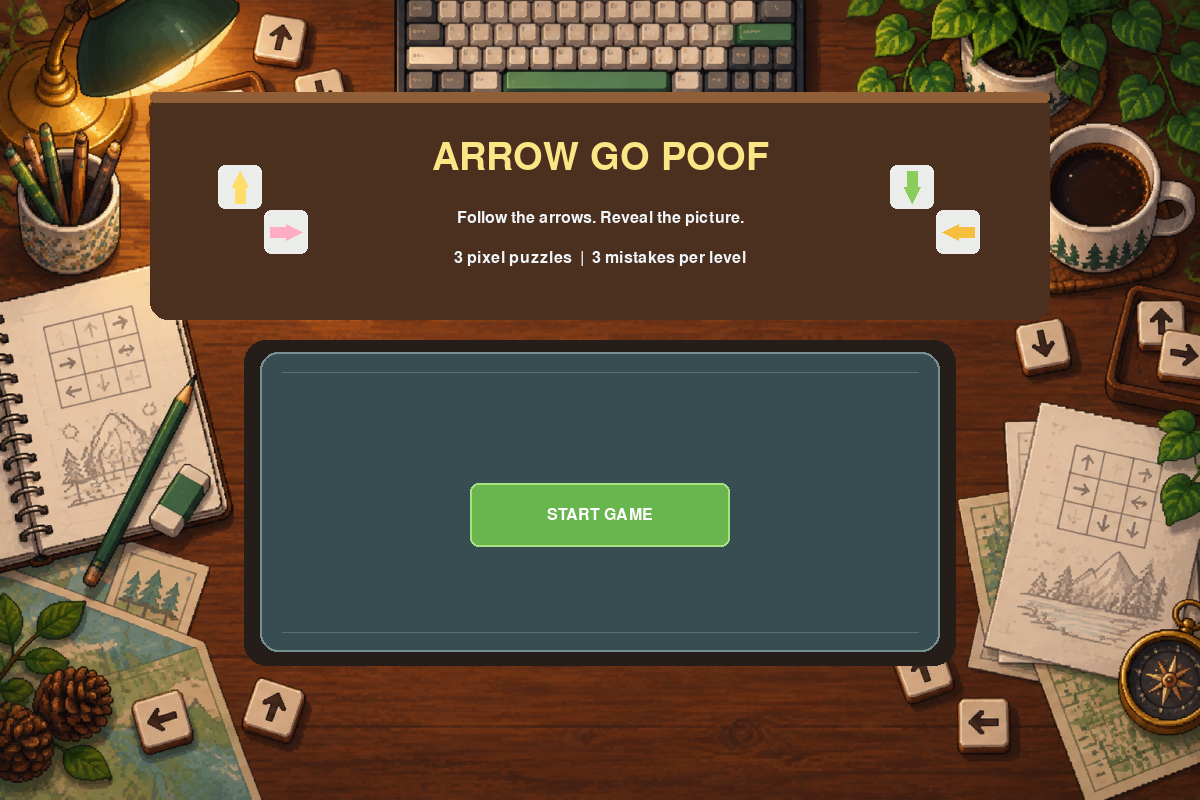
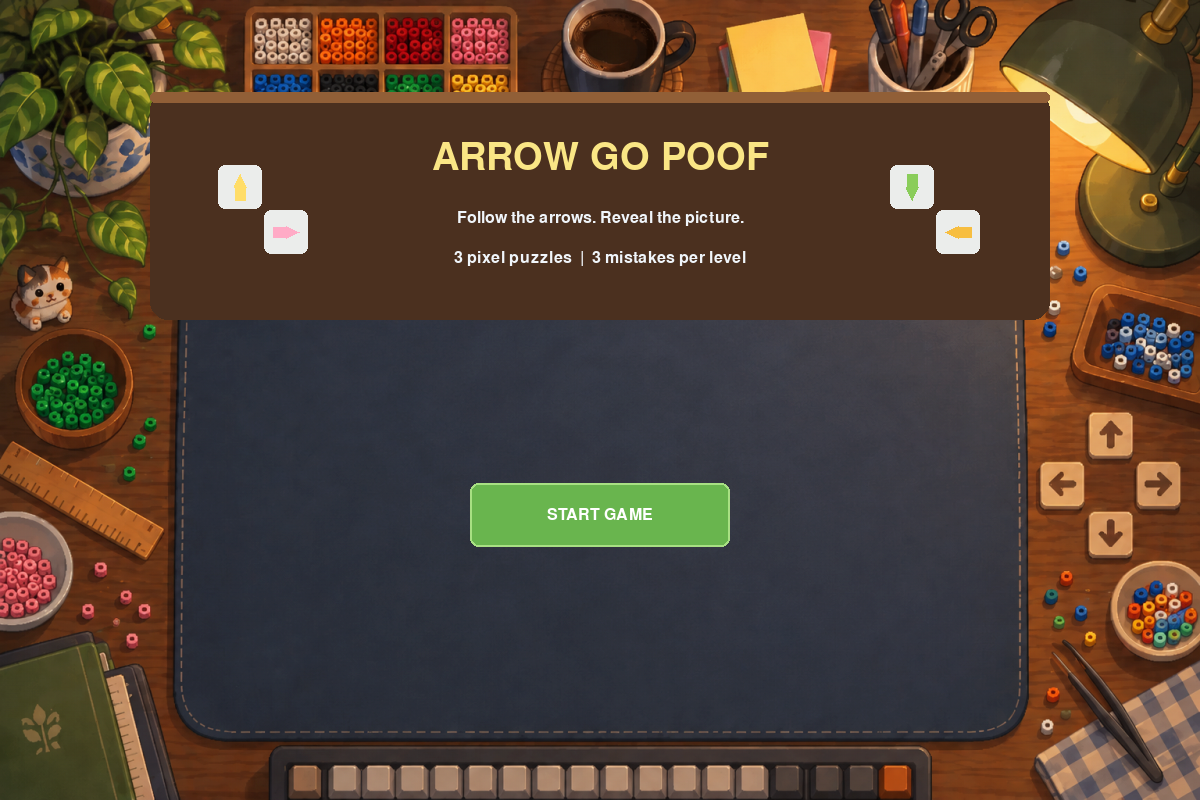
feat: use supplied bead desk and first level pattern

diff --git a/src/levels.py b/src/levels.py
@@ -12,33 +12,70 @@ SAMPLE_COLOR_GRID = (
     ("grass", "trunk", "trunk", "grass", "flower"),
 )
 
-TREE_ARROW_GRID = (
-    (None, None, None, None, None, None, "U", None, None, None, None, None, None),
-    (None, None, None, None, "U", "U", "U", "U", "U", None, None, None, None),
-    (None, None, None, "U", "U", "U", "U", "U", "U", "U", "U", None, None),
-    (None, None, "L", "U", "U", "U", "U", "U", "U", "U", "R", None, None),
-    (None, "L", "U", "U", "U", "U", "U", "U", "U", "U", "U", "R", None),
-    ("L", "U", "U", "U", "U", "U", "U", "U", "U", "U", "U", "U", "R"),
-    (None, "L", "U", "U", "U", "U", "U", "U", "U", "U", "U", "R", None),
-    (None, None, "L", "U", "U", "U", "U", "U", "U", "U", "R", None, None),
-    (None, None, None, None, "D", "D", "D", "D", "D", None, None, None, None),
-    (None, None, None, None, "D", "D", "D", "D", "D", None, None, None, None),
-    (None, None, None, None, "D", "D", "D", "D", "D", None, None, None, None),
-    (None, None, None, "L", "D", "D", "D", "D", "D", "R", None, None, None),
+TREE_LAYOUT_SEED = 2026091921
+_TREE_PIXEL_COLORS = {
+    "K": "ball_outline",
+    "H": "ball_highlight",
+    "R": "ball_red",
+    "S": "ball_shine",
+    "W": "ball_white",
+    "G": "ball_gray",
+}
+_TREE_PIXEL_ROWS = (
+    "................",
+    "................",
+    "......KKKK......",
+    "....KKHRRRKK....",
+    "...KHHSHRRRRK...",
+    "...KHSHHHHRRK...",
+    "..KHHHHHRRRRRK..",
+    "..KHHHHKKRRRRK..",
+    "..KKHHKWGKRRKK..",
+    "..KWKKKGGKKKGK..",
+    "...KWWWKKGGGK...",
+    "...KWWWWGGGGK...",
+    "....KKWGGGKK....",
+    "......KKKK......",
+    "................",
+    "................",
 )
-TREE_COLOR_GRID = (
-    (None, None, None, None, None, None, "leaf_light", None, None, None, None, None, None),
-    (None, None, None, None, "leaf", "leaf", "leaf", "leaf", "leaf", None, None, None, None),
-    (None, None, None, "leaf", "leaf", "leaf", "leaf", "leaf", "leaf", "leaf", "leaf", None, None),
-    (None, None, "leaf", "leaf", "leaf", "leaf", "leaf", "leaf", "leaf", "leaf", "leaf", None, None),
-    (None, "leaf", "leaf", "leaf", "leaf", "leaf", "leaf", "leaf", "leaf", "leaf", "leaf", "leaf", None),
-    ("leaf", "leaf", "leaf", "leaf", "leaf", "leaf", "leaf", "leaf", "leaf", "leaf", "leaf", "leaf", "leaf"),
-    (None, "leaf", "leaf", "leaf", "leaf", "leaf", "leaf", "leaf", "leaf", "leaf", "leaf", "leaf", None),
-    (None, None, "leaf", "leaf", "leaf", "leaf", "leaf", "leaf", "leaf", "leaf", "leaf", None, None),
-    (None, None, None, None, "trunk", "trunk", "trunk", "trunk", "trunk", None, None, None, None),
-    (None, None, None, None, "trunk", "trunk", "trunk", "trunk", "trunk", None, None, None, None),
-    (None, None, None, None, "trunk", "trunk", "trunk", "trunk", "trunk", None, None, None, None),
-    (None, None, None, "grass", "grass", "grass", "grass", "grass", "grass", "grass", None, None, None),
+TREE_COLOR_GRID = tuple(
+    tuple(None if pixel == "." else _TREE_PIXEL_COLORS[pixel] for pixel in row)
+    for row in _TREE_PIXEL_ROWS
+)
+TREE_ARROW_GRID = (
+    (None, None, None, None, None, None, None, None, None, None, None, None, None, None, None, None),
+    (None, None, None, None, None, None, None, None, None, None, None, None, None, None, None, None),
+    (None, None, None, None, None, None, "U", "L", "R", "U", None, None, None, None, None, None),
+    (None, None, None, None, "L", "U", "L", "L", "U", "U", "U", "U", None, None, None, None),
+    (None, None, None, "U", "D", "U", "L", "R", "R", "U", "U", "U", "R", None, None, None),
+    (None, None, None, "U", "L", "U", "R", "R", "U", "U", "U", "R", "R", None, None, None),
+    (None, None, "L", "L", "D", "U", "D", "L", "U", "U", "U", "U", "R", "R", None, None),
+    (None, None, "L", "L", "D", "U", "D", "U", "U", "U", "R", "R", "R", "R", None, None),
+    (None, None, "L", "L", "L", "L", "D", "L", "L", "R", "D", "R", "R", "R", None, None),
+    (None, None, "D", "U", "L", "D", "L", "R", "D", "R", "D", "R", "D", "D", None, None),
+    (None, None, None, "D", "L", "L", "L", "D", "D", "U", "D", "L", "R", None, None, None),
+    (None, None, None, "D", "L", "L", "D", "L", "D", "R", "D", "R", "D", None, None, None),
+    (None, None, None, None, "L", "D", "D", "L", "D", "D", "D", "R", None, None, None, None),
+    (None, None, None, None, None, None, "D", "R", "R", "R", None, None, None, None, None, None),
+    (None, None, None, None, None, None, None, None, None, None, None, None, None, None, None, None),
+    (None, None, None, None, None, None, None, None, None, None, None, None, None, None, None, None),
+)
+TREE_SOLUTION = (
+    (3, 10), (8, 2), (13, 9), (9, 13), (12, 10), (6, 13), (12, 4), (3, 5),
+    (9, 2), (4, 10), (6, 2), (8, 13), (11, 3), (4, 5), (5, 12), (3, 4),
+    (11, 12), (4, 12), (2, 6), (8, 3), (7, 13), (11, 10), (8, 4), (2, 9),
+    (2, 8), (3, 11), (13, 6), (7, 2), (7, 3), (4, 3), (10, 10), (10, 12),
+    (5, 3), (10, 3), (13, 8), (6, 3), (12, 6), (13, 7), (3, 9), (10, 4),
+    (9, 12), (5, 5), (3, 6), (7, 12), (11, 4), (5, 10), (6, 12), (12, 8),
+    (11, 6), (11, 11), (11, 5), (9, 3), (12, 5), (10, 5), (11, 9), (3, 8),
+    (9, 4), (4, 9), (8, 12), (7, 4), (5, 9), (9, 5), (9, 11), (9, 6),
+    (7, 11), (9, 10), (2, 7), (4, 11), (12, 11), (12, 9), (6, 5), (8, 5),
+    (3, 7), (4, 8), (6, 4), (7, 5), (5, 8), (5, 11), (11, 7), (8, 10),
+    (9, 9), (5, 4), (6, 10), (4, 4), (8, 11), (6, 9), (10, 6), (8, 6),
+    (8, 9), (12, 7), (7, 6), (7, 9), (6, 8), (4, 7), (8, 7), (6, 6),
+    (11, 8), (7, 10), (4, 6), (10, 9), (8, 8), (5, 7), (10, 8), (7, 8),
+    (5, 6), (10, 7), (6, 7), (6, 11), (7, 7), (9, 8), (9, 7), (10, 11),
 )
 
 
@@ -50,7 +87,7 @@ def create_sample_board() -> Board:
 
 
 def create_tree_board() -> Board:
-    """Return a fresh Board for the tree-shaped demo level."""
+    """Return a fresh Board for the supplied bead-ball pixel pattern."""
     arrow_grid = [list(row) for row in TREE_ARROW_GRID]
     color_grid = [list(row) for row in TREE_COLOR_GRID]
     return Board(arrow_grid, color_grid)
@@ -166,5 +203,5 @@ def create_sun_board() -> Board:
     )
 
 
-LEVEL_NAMES = ("TREE", "FLOWER", "SUN")
+LEVEL_NAMES = ("BEAD BALL", "FLOWER", "SUN")
 LEVEL_FACTORIES = (create_tree_board, create_flower_board, create_sun_board)

diff --git a/tests/test_levels.py b/tests/test_levels.py
@@ -13,6 +13,8 @@ from src.levels import (
     SUN_SOLUTION,
     TREE_ARROW_GRID,
     TREE_COLOR_GRID,
+    TREE_LAYOUT_SEED,
+    TREE_SOLUTION,
     create_sample_board,
     create_flower_board,
     create_sun_board,
@@ -38,13 +40,13 @@ def test_sample_level_definitions_are_tuples_of_tuples():
     assert all(isinstance(row, tuple) for row in SAMPLE_COLOR_GRID)
 
 
-def test_tree_level_definitions_are_12_by_13_tuples():
+def test_first_level_definitions_are_16_by_16_tuples():
     assert isinstance(TREE_ARROW_GRID, tuple)
     assert isinstance(TREE_COLOR_GRID, tuple)
-    assert len(TREE_ARROW_GRID) == 12
-    assert len(TREE_COLOR_GRID) == 12
-    assert all(len(row) == 13 for row in TREE_ARROW_GRID)
-    assert all(len(row) == 13 for row in TREE_COLOR_GRID)
+    assert len(TREE_ARROW_GRID) == 16
+    assert len(TREE_COLOR_GRID) == 16
+    assert all(len(row) == 16 for row in TREE_ARROW_GRID)
+    assert all(len(row) == 16 for row in TREE_COLOR_GRID)
     assert all(isinstance(row, tuple) for row in TREE_ARROW_GRID)
     assert all(isinstance(row, tuple) for row in TREE_COLOR_GRID)
 
@@ -55,53 +57,33 @@ def test_tree_level_arrow_and_color_masks_match():
     assert arrow_mask == color_mask
 
 
-def test_tree_level_has_expected_top_and_trunk_cells():
-    assert TREE_ARROW_GRID[0][6] == "U"
-    assert TREE_COLOR_GRID[0][6] == "leaf_light"
-    assert TREE_COLOR_GRID[8][6] == "trunk"
+def test_first_level_uses_the_supplied_bead_ball_pixel_pattern():
+    assert TREE_COLOR_GRID[2][6] == "ball_outline"
+    assert TREE_COLOR_GRID[4][6] == "ball_shine"
+    assert TREE_COLOR_GRID[8][7] == "ball_white"
+    assert TREE_COLOR_GRID[9][7] == "ball_gray"
 
 
-def test_tree_level_direction_layout_has_edges_and_internal_directions():
-    assert TREE_ARROW_GRID[3][2] == "L"
-    assert TREE_ARROW_GRID[3][10] == "R"
-    assert TREE_ARROW_GRID[5][0] == "L"
-    assert TREE_ARROW_GRID[5][12] == "R"
-    assert TREE_ARROW_GRID[11][3] == "L"
-    assert TREE_ARROW_GRID[11][4] == "D"
-    assert TREE_ARROW_GRID[11][9] == "R"
-    for row in TREE_ARROW_GRID[1:3]:
-        assert all(cell == "U" for cell in row if cell is not None)
-    for row in TREE_ARROW_GRID[3:8]:
-        valid_cells = [cell for cell in row if cell is not None]
-        assert valid_cells[0] == "L"
-        assert valid_cells[-1] == "R"
-        assert all(cell == "U" for cell in valid_cells[1:-1])
-    assert TREE_ARROW_GRID[8][6] == "D"
-    assert all(
-        cell == "D"
-        for row in TREE_ARROW_GRID[8:11]
-        for cell in row
-        if cell is not None
-    )
+def test_first_level_uses_all_four_arrow_directions():
+    arrows = {cell for row in TREE_ARROW_GRID for cell in row if cell is not None}
+    assert arrows == {"U", "D", "L", "R"}
 
 
 def test_tree_board_factory_returns_independent_boards():
     first = create_tree_board()
     second = create_tree_board()
-    first.arrow_grid[0][6] = "."
-    first.color_grid[1][6] = "changed_leaf"
-    first.color_grid[8][6] = "changed_trunk"
-    assert second.arrow_grid[0][6] == "U"
-    assert second.color_grid[1][6] == "leaf"
-    assert second.color_grid[8][6] == "trunk"
+    first.arrow_grid[2][6] = "."
+    first.color_grid[2][6] = "changed_outline"
+    assert second.arrow_grid[2][6] == "U"
+    assert second.color_grid[2][6] == "ball_outline"
 
 
 def test_tree_factory_is_available_for_runtime_entry_point():
     board = create_tree_board()
 
-    assert board.rows == 12
-    assert board.cols == 13
-    assert board.remaining_arrows() > 0
+    assert board.rows == 16
+    assert board.cols == 16
+    assert board.remaining_arrows() == 112
 
 
 def _winning_sequence(factory):
@@ -142,9 +124,7 @@ def test_extra_levels_use_all_four_arrow_directions():
 
 
 def test_every_course_level_has_a_winning_sequence():
-    sequence = _winning_sequence(create_tree_board)
-    assert sequence is not None
-    assert len(sequence) == create_tree_board().remaining_arrows()
+    assert _play_frozen_solution(create_tree_board, TREE_SOLUTION)
     assert _play_frozen_solution(create_flower_board, FLOWER_SOLUTION)
     assert _play_frozen_solution(create_sun_board, SUN_SOLUTION)
 
@@ -178,8 +158,11 @@ def test_flower_and_sun_are_large_fixed_pixel_art_levels():
 
 
 def test_frozen_art_layouts_match_their_generation_seeds():
+    tree = generate_solvable_layout(TREE_COLOR_GRID, TREE_LAYOUT_SEED)
     flower = generate_solvable_layout(FLOWER_COLOR_GRID, FLOWER_LAYOUT_SEED)
     sun = generate_solvable_layout(SUN_COLOR_GRID, SUN_LAYOUT_SEED)
+    assert TREE_ARROW_GRID == tree.arrow_grid
+    assert TREE_SOLUTION == tree.solution
     assert FLOWER_ARROW_GRID == flower.arrow_grid
     assert FLOWER_SOLUTION == flower.solution
     assert SUN_ARROW_GRID == sun.arrow_grid

diff --git a/src/ui.py b/src/ui.py
@@ -19,7 +19,6 @@ ERROR_ARROW = (128, 38, 38)
 HOVER_COLOR = (102, 213, 255)
 MENU_BACKGROUND_PATH = Path(__file__).resolve().parent.parent / "assets" / "menu-background.png"
 MENU_PANEL_COLOR = (75, 48, 31)
-DESK_MAT_COLOR = (55, 77, 82)
 COLOR_MAP = {
     "leaf_light": (138, 205, 90),
     "leaf": (105, 181, 78),
@@ -33,6 +32,12 @@ COLOR_MAP = {
     "sun": (252, 190, 55),
     "ray": (255, 221, 104),
     "sky": (126, 190, 232),
+    "ball_outline": (40, 43, 45),
+    "ball_highlight": (231, 131, 52),
+    "ball_red": (192, 83, 48),
+    "ball_shine": (235, 251, 247),
+    "ball_white": (255, 255, 255),
+    "ball_gray": (188, 192, 188),
 }
 
 
@@ -79,9 +84,21 @@ class UI:
             # onto headless test surfaces before a display mode exists.
             pygame.image.load(MENU_BACKGROUND_PATH), WINDOW_SIZE
         )
+        self._refresh_layout()
 
     def cell_at(self, position: tuple[int, int]) -> tuple[int, int] | None:
+        self._refresh_layout()
         return self.layout.cell_at(position, self.game.board.rows, self.game.board.cols)
+
+    def _refresh_layout(self) -> None:
+        """Center the current level while leaving room for the HUD."""
+        cell_size = min(
+            48,
+            640 // self.game.board.rows,
+            680 // self.game.board.cols,
+        )
+        origin_x = (self.screen.get_width() - self.game.board.cols * cell_size) // 2
+        self.layout = GridLayout(origin=(origin_x, 130), cell_size=cell_size)
 
     def restart_rect(self) -> pygame.Rect:
         return self.result_action_rect()
@@ -149,15 +166,8 @@ class UI:
         self.screen.blit(label, label.get_rect(center=button.center))
 
     def _draw_menu_background(self) -> None:
-        """Draw the generated work desk and its central game mat."""
+        """Draw the generated work desk behind the one-button main menu."""
         self.screen.blit(self.menu_background, (0, 0))
-        shadow = pygame.Rect(244, 340, 712, 326)
-        mat = pygame.Rect(260, 352, 680, 300)
-        pygame.draw.rect(self.screen, (36, 29, 25), shadow, border_radius=22)
-        pygame.draw.rect(self.screen, DESK_MAT_COLOR, mat, border_radius=18)
-        pygame.draw.rect(self.screen, (117, 144, 143), mat, 2, border_radius=18)
-        pygame.draw.line(self.screen, (87, 111, 112), (282, 372), (918, 372), 1)
-        pygame.draw.line(self.screen, (87, 111, 112), (282, 632), (918, 632), 1)
 
     def _draw_background(self) -> None:
         width, height = self.screen.get_size()
@@ -181,6 +191,7 @@ class UI:
             pygame.draw.rect(self.screen, (245, 247, 238), (x + 24, y - 14, 58, 18))
 
     def _draw_board(self) -> None:
+        self._refresh_layout()
         hover_cell = self.cell_at(pygame.mouse.get_pos())
         active_cells = {
             (animation.row, animation.col) for animation in self.game.animations

diff --git a/tests/test_ui.py b/tests/test_ui.py
@@ -3,6 +3,7 @@ import pytest
 
 from src.board import Board
 from src.game import Game
+from src.levels import create_tree_board
 from src.ui import BACKGROUND, COLOR_MAP, MENU_BACKGROUND_PATH, MENU_PANEL_COLOR, GridLayout, WINDOW_SIZE
 from src.ui import UI
 
@@ -60,15 +61,16 @@ def test_start_screen_draws_a_distinct_title_panel_and_start_button():
     assert screen.get_at((80, 80))[:3] != BACKGROUND
 
 
-def test_start_screen_draws_a_central_desk_mat():
-    pygame.font.init()
-    screen = pygame.Surface(WINDOW_SIZE)
-    game = Game(lambda: Board([["R"]], [["leaf"]]), start_in_menu=True)
-
-    UI(screen, game).draw()
-
-    assert screen.get_at((600, 400))[:3] == (55, 77, 82)
-
-
 def test_main_menu_background_is_packaged_with_the_project():
     assert MENU_BACKGROUND_PATH.is_file()
+
+
+def test_ui_scales_the_16_by_16_first_level_to_fit_the_play_area():
+    pygame.font.init()
+    screen = pygame.Surface(WINDOW_SIZE)
+    ui = UI(screen, Game(create_tree_board))
+
+    assert ui.layout.cell_size == 40
+    assert ui.layout.origin == (280, 130)
+    assert ui.cell_at((919, 769)) == (15, 15)
+    assert ui.cell_at((920, 770)) is None

diff --git a/tests/test_game.py b/tests/test_game.py
@@ -136,7 +136,7 @@ def test_start_enters_first_level_and_next_level_replaces_board():
     game.start()
     first_board = game.board
     assert game.state is GameState.PLAYING
-    assert game.level_name == "TREE"
+    assert game.level_name == "BEAD BALL"
 
     game.state = GameState.CLEARED
     assert game.next_level() is True

diff --git a/docs/course-report.md b/docs/course-report.md
@@ -25,7 +25,7 @@
 
 玩家每次点击一个箭头，程序检查它沿自身方向到棋盘边界之间的同行或同列位置。如果没有其他箭头，Board 立即把它标记为已清除，Game 创建飞出动画；如果存在其他箭头，Board 返回首个 blocker，Game 立即扣除一次失误机会，CollisionAnimation 负责撞击、变红和回退。
 
-项目包含 TREE、FLOWER、SUN 三个关卡。每个关卡由二维网格和颜色网格表示：`U/D/L/R` 是四种方向箭头，`.` 是已露出的像素位置，`None` 是图案外背景。箭头清除后，原位置显示颜色网格中的树叶、树干、草地、花瓣或阳光颜色。花朵和太阳的箭头方向在开发阶段通过固定种子生成并验证后复制为常量，因此每次启动布局相同，不会因随机生成而出现不可解关卡。
+项目包含 BEAD BALL、FLOWER、SUN 三个关卡。每个关卡由二维网格和颜色网格表示：`U/D/L/R` 是四种方向箭头，`.` 是已露出的像素位置，`None` 是图案外背景。箭头清除后，原位置显示颜色网格中的拼豆球、花瓣或阳光颜色。第一关由提交者提供的 `.px` 拼豆工程图案转换为 16×16 固定网格；花朵和太阳的箭头方向在开发阶段通过固定种子生成并验证后复制为常量，因此每次启动布局相同，不会因随机生成而出现不可解关卡。
 
 主要模块如下：
 
@@ -51,10 +51,10 @@
 | 子任务 | 使用的 AIGC | AI 提供的帮助 | 实际效果与人工修改 |
 | --- | --- | --- | --- |
 | 需求分析与界面方向 | ChatGPT/Codex + 图像生成参考 | 将“箭头遮罩逐渐揭开像素图”的想法整理为窗口布局、颜色层级和交互状态 | 初始方案直接进入关卡，后来根据课程要求补充开始界面；保留几何绘制，不复制商业素材 |
-| 主界面背景美术 | GPT Image | 生成一张原创像素风工作桌面，包含键盘、纸张、便签和箭头方块 | 人工限定中间留白、禁止文字和商标；将图片放入 `assets/` 并仅用于主界面，保留代码绘制的标题和按钮 |
+| 主界面背景美术 | 用户提供图片 + Codex | 提供一张包含拼豆盒、工作桌垫和手作工具的工作桌图片；Codex 将它接入开始界面 | 人工确认图片中央留白适合标题和按钮；图片仅用于主界面，保留代码绘制的标题和按钮 |
 | 路径检测、Game 分层和测试设计 | Codex | 设计 Board/Game/Animation/UI 分层，生成方向检测和状态转换测试 | 人工核对边界、非法点击、重复点击和生命值归零；增加独立关卡工厂测试 |
 | 飞出动画 Bug 调试 | ChatGPT/Codex | 根据试玩反馈追踪 Board 清除、Game 动画列表和 UI 绘制之间的数据流 | 发现飞出距离固定为 2 格导致箭头突然消失；先写失败回归测试，再改为越过 1200×800 窗口边界的方向距离 |
-| 关卡设计与可通关验证 | Codex | 根据花朵、太阳颜色掩码生成固定方向布局和验证顺序 | 初版布局方向过于整齐；人工要求改为大图案和更分散的方向，随后固定种子结果并加入逐步清空测试 |
+| 关卡设计与可通关验证 | Codex | 根据提交者提供的 `.px` 拼豆图案及花朵、太阳颜色掩码生成固定方向布局和验证顺序 | 第一关转换为 16×16 拼豆球图案；花朵、太阳关卡固定种子结果并加入逐步清空测试 |
 
 ## 5. 测试结果
 

diff --git a/README.md b/README.md
@@ -15,12 +15,12 @@
 - 成功箭头飞出窗口的动画；
 - 阻挡箭头撞击、变红、回退并保留错误标记；
 - 三次失误机会，HUD 显示生命值、失误次数和剩余箭头；
-- 3 个可以正常通关的关卡：TREE、13×13 FLOWER、13×13 SUN；
+- 3 个可以正常通关的关卡：16×16 BEAD BALL、13×13 FLOWER、13×13 SUN；
 - 花朵、太阳关卡使用固定的像素画颜色掩码和已冻结的方向布局；布局在设计阶段由固定种子工具生成并验证，运行时不会随机变化；
 - 通关后进入下一关，失败后重开当前关，最终通关后可重新开始整局；
 - 无外部商业游戏代码、美术、音效或关卡资源。
 
-主界面风景背景为本项目使用 GPT Image 生成的原创像素风资源，文件位于 `assets/menu-background.png`；其余界面与关卡图案均由 Pygame 基础图形绘制。
+主界面工作桌背景使用提交者提供的图片资源，文件位于 `assets/menu-background.png`；第一关 BEAD BALL 根据提交者提供的 `.px` 拼豆工程图案转换为固定网格。其余界面与关卡图案均由 Pygame 基础图形绘制。
 
 ## 开发环境
 
